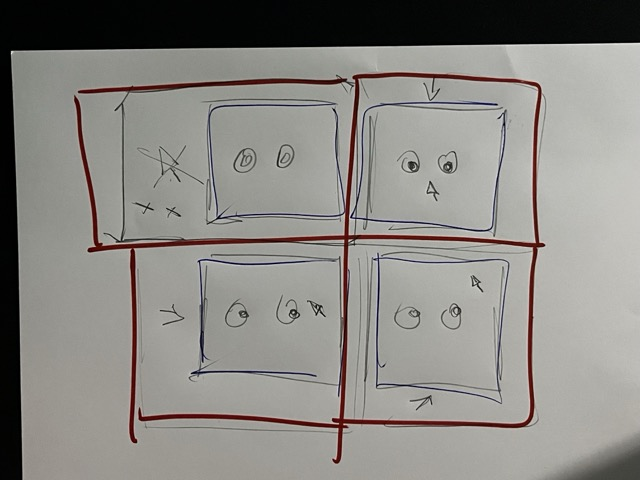
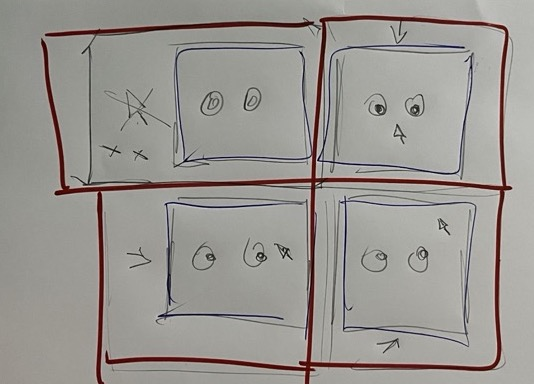
Déplace le croquis papier dans la section du projet n°20
Le croquis Fockice (image redimensionnée) n'apparaît plus en tête :
il est intégré à sa place dans le fil de documentation (projet n°20),
avec un simple renvoi dans l'introduction.

diff --git a/README.md b/README.md
@@ -8,6 +8,8 @@
 > Ce document est le **dossier d'accompagnement « processus »** demandé dans les consignes :
 > notes, captures d'écran, croquis de recherche et documentation des algorithmes / fonctions
 > utiles à réutiliser. Une section par croquis, dans l'ordre de la galerie.
+> Le **croquis de recherche sur papier quadrillé** (exigé par les consignes) se trouve dans le
+> projet **n°20 — Fockice**, à sa place dans le fil de documentation.
 
 ---
 
@@ -24,25 +26,6 @@
 > **projet personnel réalisé en bonus, hors du cadre de ce projet et hors barème**. Il n'est
 > pas à prendre en compte dans la note. (Détecteur/censeur de visages en p5.js + serveur
 > Python InsightFace.)
-
----
-
-## 🖉 Croquis sur papier quadrillé
-
-Les consignes demandent **au moins un projet réalisé à l'aide d'un croquis sur papier
-quadrillé**. Le projet conçu d'abord sur papier est le **n°20 — Fockice (les yeux qui suivent
-la souris)**. Tout se pose à la règle sur le quadrillage :
-
-- deux **cercles** (les yeux), de centre `(cx, cy)` et de rayon `irisR` ;
-- un **point cible** = la souris `(mouseX, mouseY)` ;
-- on trace le **trait** du centre vers la souris : son angle est `a = atan2(dy, dx)` ;
-- la **pupille** se place sur ce trait, mais à une distance **bornée** pour rester dans l'œil :
-  `d = min(distance, irisR − pupilR)`.
-
-Le croquis montre donc : les deux cercles, la souris à un endroit, le trait, et la pupille
-collée au bord intérieur quand la souris est loin → c'est tout l'algorithme en un dessin.
-
-<img src="sketches/croquis-fockice.jpeg" alt="Croquis sur papier quadrillé du projet Fockice" width="420">
 
 ---
 
@@ -327,6 +310,20 @@ let a = atan2(mouseY - cy, mouseX - cx);
 let d = min(sqrt(dx*dx + dy*dy), irisR - pupilR); // ne sort pas de l'iris
 let px = cx + cos(a)*d, py = cy + sin(a)*d;
 ```
+
+**Croquis de recherche (papier quadrillé) :** ce projet a été conçu d'abord sur papier. Tout
+se pose à la règle sur le quadrillage :
+
+- deux **cercles** (les yeux), de centre `(cx, cy)` et de rayon `irisR` ;
+- un **point cible** = la souris `(mouseX, mouseY)` ;
+- on trace le **trait** du centre vers la souris : son angle est `a = atan2(dy, dx)` ;
+- la **pupille** se place sur ce trait, mais à une distance **bornée** pour rester dans l'œil :
+  `d = min(distance, irisR − pupilR)`.
+
+Le croquis montre les deux cercles, la souris, le trait, et la pupille collée au bord intérieur
+quand la souris est loin → tout l'algorithme en un dessin.
+
+<img src="sketches/croquis-fockice.jpeg" alt="Croquis sur papier quadrillé du projet Fockice" width="420">
 
 ---
 
